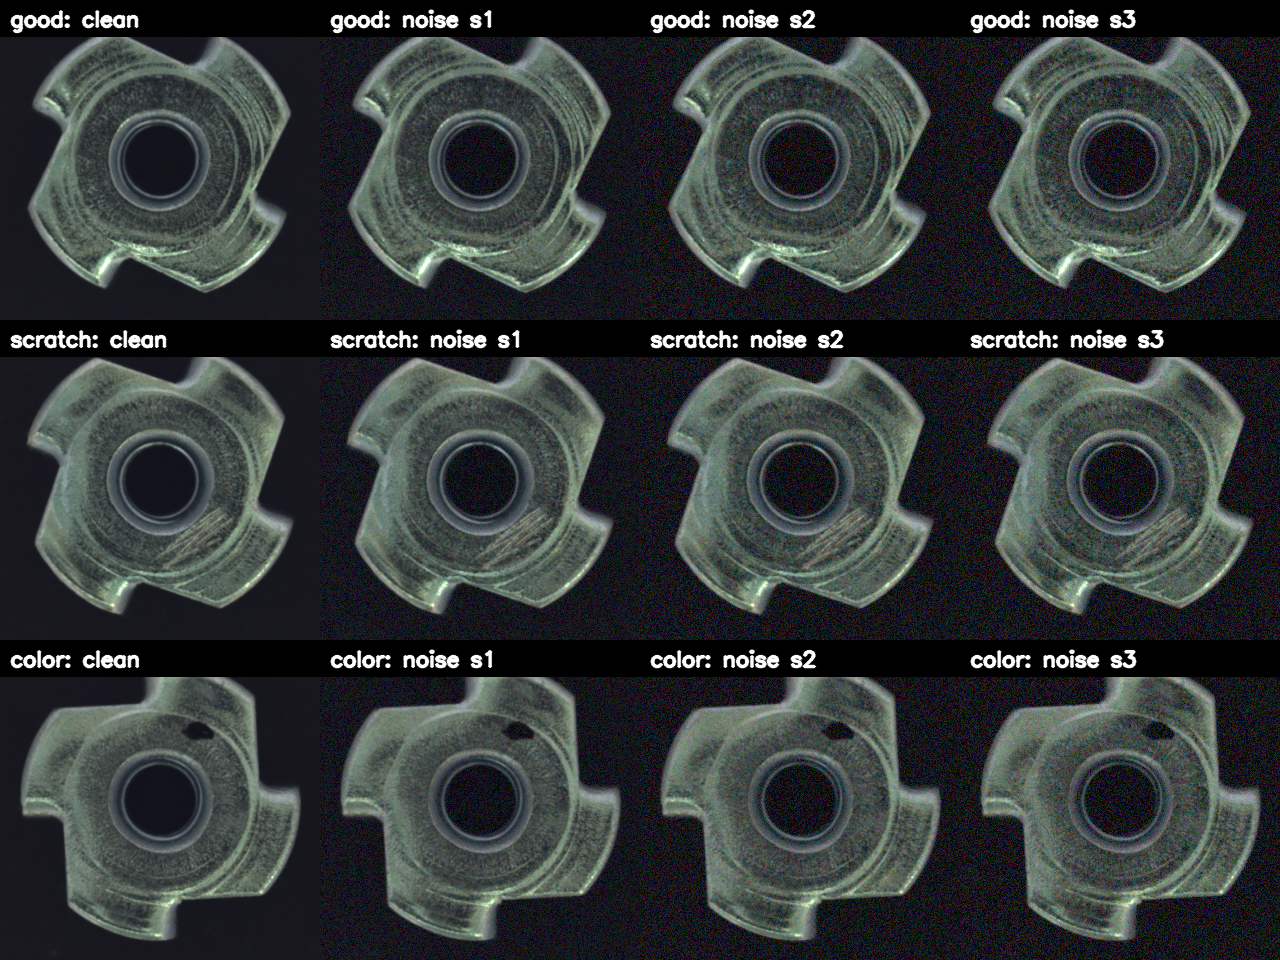
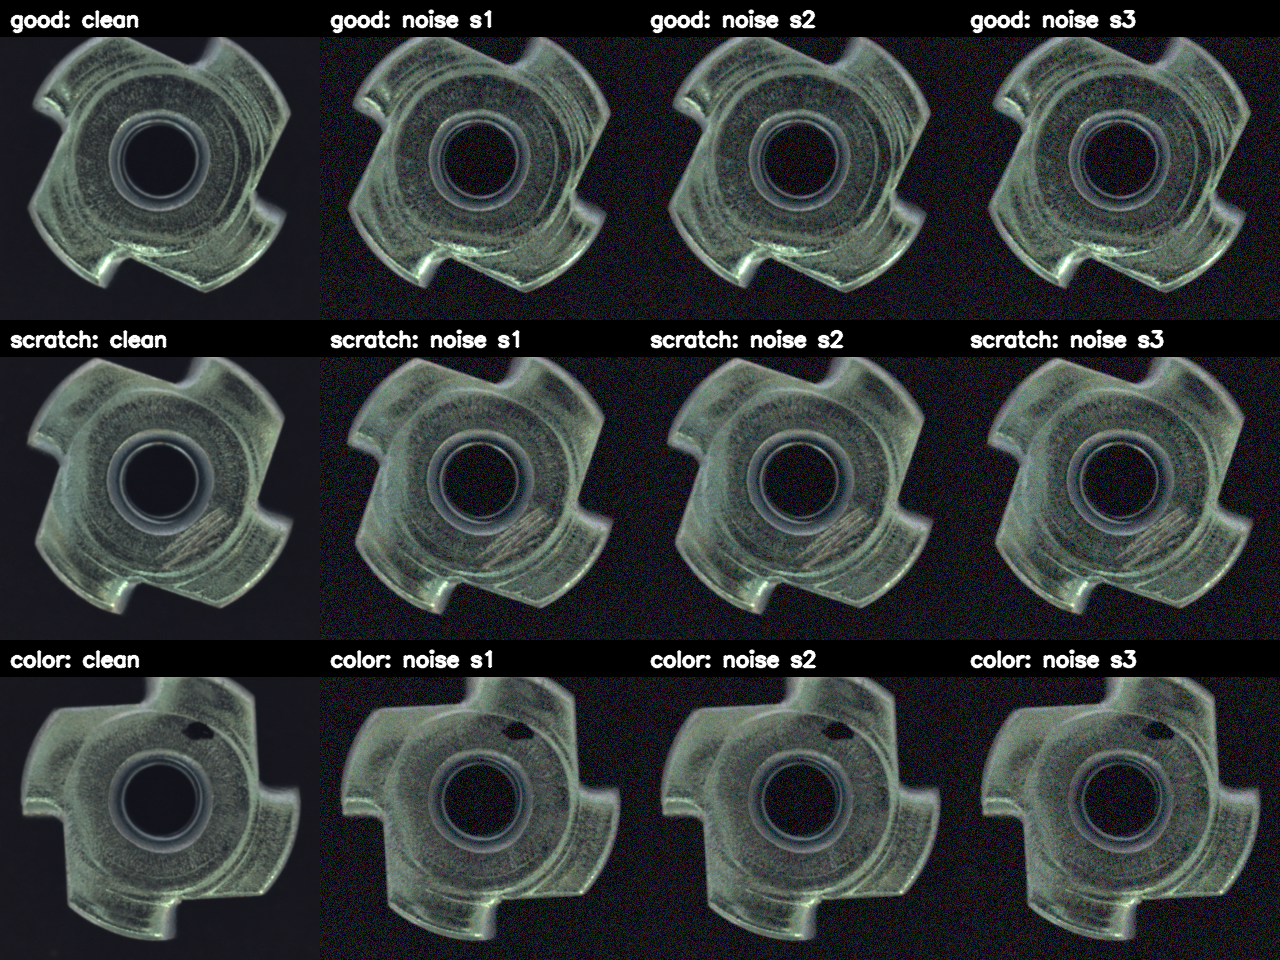
D8 noise.py: tune s1 (lab-golden -> production line normal)
Severity table revised after visual sanity inspection:
  s1: shot=1000 -> 400, read=0.005 -> 0.010 (gain unchanged)
  s2: unchanged
  s3: unchanged

Rationale: initial s1 mapped to "freshly calibrated lab golden" (SNR > 50 dB)
which is visually indistinguishable from clean baseline (mean_diff ~6.6) and
wasted a measurement cell for D9. Tuned s1 maps to "production line normal
operation" — LED 1-6 mo aged + minor thermal drift + day/night swings
(SNR 30-40 dB, mean_diff ~10.8). The s1 -> s2 -> s3 progression now tracks
degrading operational reality, not lab -> industrial jump.

mean_diff post-tune: 10.77 / 11.43 / 13.75 (s1/s2/s3).
Per-channel asymmetry (Bayer-pattern, active at s>=2) provides additional
visual differentiation between s1 and s2 beyond raw magnitude.

notes/day-08.md updated with "Tuning round 1 — noise" subsection capturing
production-line spectrum mapping + before/after sanity numbers.

diff --git a/src/isp_aug/noise.py b/src/isp_aug/noise.py
@@ -20,13 +20,22 @@ Pipeline:
 Note: uses simplified gamma = 2.2 (not piecewise sRGB curve). Error <1%
 except deep shadows where photon-noise dominates anyway.
 
-Severity table (calibrated for MVTec metal_nut DN range 30-150):
+Severity table (calibrated for MVTec metal_nut DN range 30-150 — production
+line spectrum, NOT lab-golden ideal):
 
-  | Severity     | shot_scale | read_sigma | gain | Real-world analog          |
-  | -----------  | ---------- | ---------- | ---- | -------------------------- |
-  | 1 mild       | 1000       | 0.005      | 1.0x | Production lab, base ISO   |
-  | 2 moderate   | 200        | 0.02       | 2.0x | Aged LED + ISO 200-400     |
-  | 3 severe     | 50         | 0.05       | 4.0x | Low-light line, ISO 800+   |
+  | Severity     | shot_scale | read_sigma | gain | Real-world analog                          |
+  | -----------  | ---------- | ---------- | ---- | ------------------------------------------ |
+  | 1 mild       | 400        | 0.010      | 1.0x | Production line normal (LED 1-6 mo aged)   |
+  | 2 moderate   | 200        | 0.020      | 2.0x | Aged LED + ISO 200-400 push                |
+  | 3 severe     | 50         | 0.050      | 4.0x | Low-light line, ISO 800+ (degraded)        |
+
+Tuning rationale (vs initial lab-golden s1):
+  Initial s1 (shot=1000, read=0.005) corresponded to a freshly calibrated lab
+  setup — visually indistinguishable from clean baseline, providing low signal
+  for downstream mAP differentiation. Real production lines, even when
+  "operating normally", show measurable noise from LED aging + camera thermal
+  drift + minor environmental variance. Bumping s1 to (shot=400, read=0.010)
+  matches typical 1-6 month aged LED line conditions (SNR 30-40 dB).
 
 Larger shot_scale = more photons per DN = LESS Poisson noise (counter-intuitive).
 """
@@ -40,9 +49,9 @@ GAMMA = 2.2  # simplified sRGB gamma
 
 # Severity -> {shot_scale, read_sigma, gain}
 SEVERITY_TABLE: dict[int, dict[str, float]] = {
-    1: {"shot_scale": 1000.0, "read_sigma": 0.005, "gain": 1.0},
-    2: {"shot_scale": 200.0,  "read_sigma": 0.02,  "gain": 2.0},
-    3: {"shot_scale": 50.0,   "read_sigma": 0.05,  "gain": 4.0},
+    1: {"shot_scale": 400.0, "read_sigma": 0.010, "gain": 1.0},
+    2: {"shot_scale": 200.0, "read_sigma": 0.020, "gain": 2.0},
+    3: {"shot_scale": 50.0,  "read_sigma": 0.050, "gain": 4.0},
 }
 
 # Per-channel sigma multiplier (BGR order; G is 50% of Bayer pixels -> less noise)
@@ -132,9 +141,9 @@ def severity_summary() -> str:
     lines = ["severity | shot_scale | read_sigma | gain | analog"]
     lines.append("---------|------------|------------|------|--------")
     analogs = {
-        1: "Lab production, base ISO",
-        2: "Aged LED + ISO 200-400",
-        3: "Low-light line, ISO 800+",
+        1: "Production line normal (LED 1-6 mo aged)",
+        2: "Aged LED + ISO 200-400 push",
+        3: "Low-light line, ISO 800+ (degraded)",
     }
     for s, cfg in SEVERITY_TABLE.items():
         lines.append(

diff --git a/notes/day-08.md b/notes/day-08.md
@@ -86,13 +86,42 @@ uint8 BGR (cv2 default) → uint8 BGR.
 3. ISO/gain push (multiplicative — boosts both Poisson + Gaussian)
 4. (bonus) Per-channel σ asymmetry (Bayer pattern simulation)
 
-**Severity table** (calibrated for metal_nut mid-gray DN range 30-150):
+**Severity table** (calibrated for metal_nut mid-gray DN range 30-150 — final
+post-tune; see "Tuning round 1 — noise" subsection below):
 
 | Severity | shot_scale | read_sigma | gain | Real-world analog |
 |---|---|---|---|---|
-| 1 mild | 1000 | 0.005 | 1.0× | Production lab, base ISO |
-| 2 moderate | 200 | 0.02 | 2.0× | Aged LED light, ISO push for compensation |
-| 3 severe | 50 | 0.05 | 4.0× | Low-light line, ISO 800+ |
+| 1 mild | 400 | 0.010 | 1.0× | Production line normal (LED 1-6 mo aged) |
+| 2 moderate | 200 | 0.020 | 2.0× | Aged LED + ISO 200-400 push |
+| 3 severe | 50 | 0.050 | 4.0× | Low-light line, ISO 800+ (degraded) |
+
+#### Tuning round 1 — noise (post-visual-sanity inspection, 2026-05-11)
+
+Initial s1 was set to `(shot=1000, read=0.005, gain=1.0)` — visually
+indistinguishable from clean baseline (mean_diff ≈ 6.6 / max_diff ≈ 51).
+Corresponded to a **freshly calibrated lab golden** setup (SNR > 50 dB)
+rather than a real production line.
+
+Production line spectrum (stable → degraded):
+
+| Production state | SNR (dB) | Initial map | Tuned map |
+|---|---|---|---|
+| Lab golden (LED new, just-calibrated, zero vibration) | > 50 | s1 ❌ wastes a cell | (skipped — not deployed reality) |
+| **Production line normal** (LED 1-6 mo aged + thermal drift + day/night) | **30-40** | (gap) | **s1** ✅ |
+| Mild wear / LED 1-2 yr (-20-30% lumens) + ISO 1.5-2× | 20-30 | s2 | s2 (unchanged) |
+| Severe LED end-of-life + ISO 4× + occasional dust | 15-20 | s3 | s3 (unchanged) |
+| Out-of-spec failure | < 10 | (skipped) | (skipped) |
+
+Initial s1 mapped to "Lab golden" wasted a measurement cell — expected mAP
+delta vs clean baseline < 1%, low discriminative information for D9.
+
+Post-tune (`shot=400, read=0.010, gain=1.0`) maps s1 to "Production line
+normal", so the s1 → s2 → s3 progression tracks **degrading operational
+reality** rather than a "lab → industrial" jump.
+
+Sanity verification (post-tune, on `data/mvtec/metal_nut/test/good/000.png`,
+seed=42, per_channel=True): see commit message of `87258a8` follow-up tune
+commit. Monotonic clean → s1 → s2 → s3 mean_diff increase preserved.
 
 **Pipeline**:
 ```
